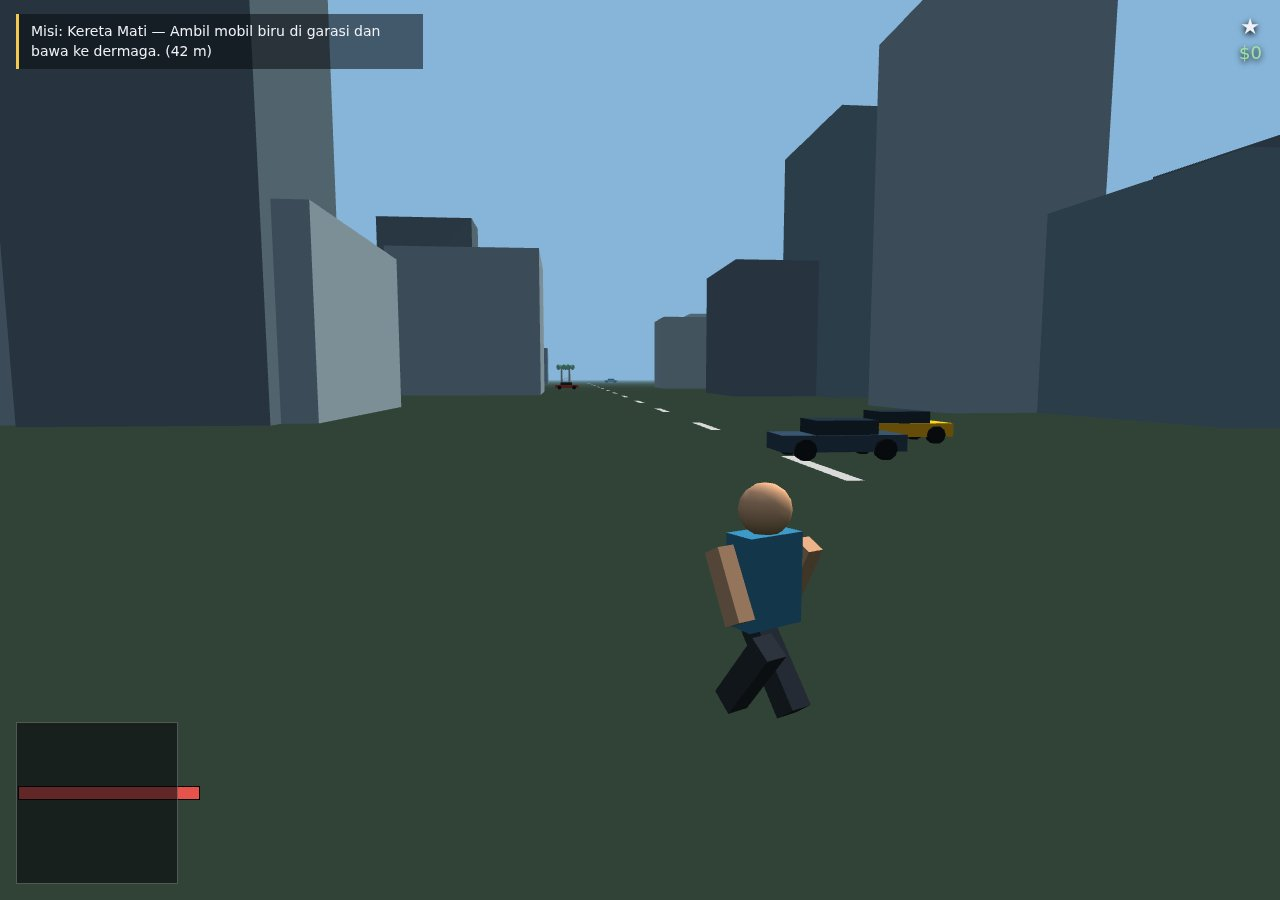
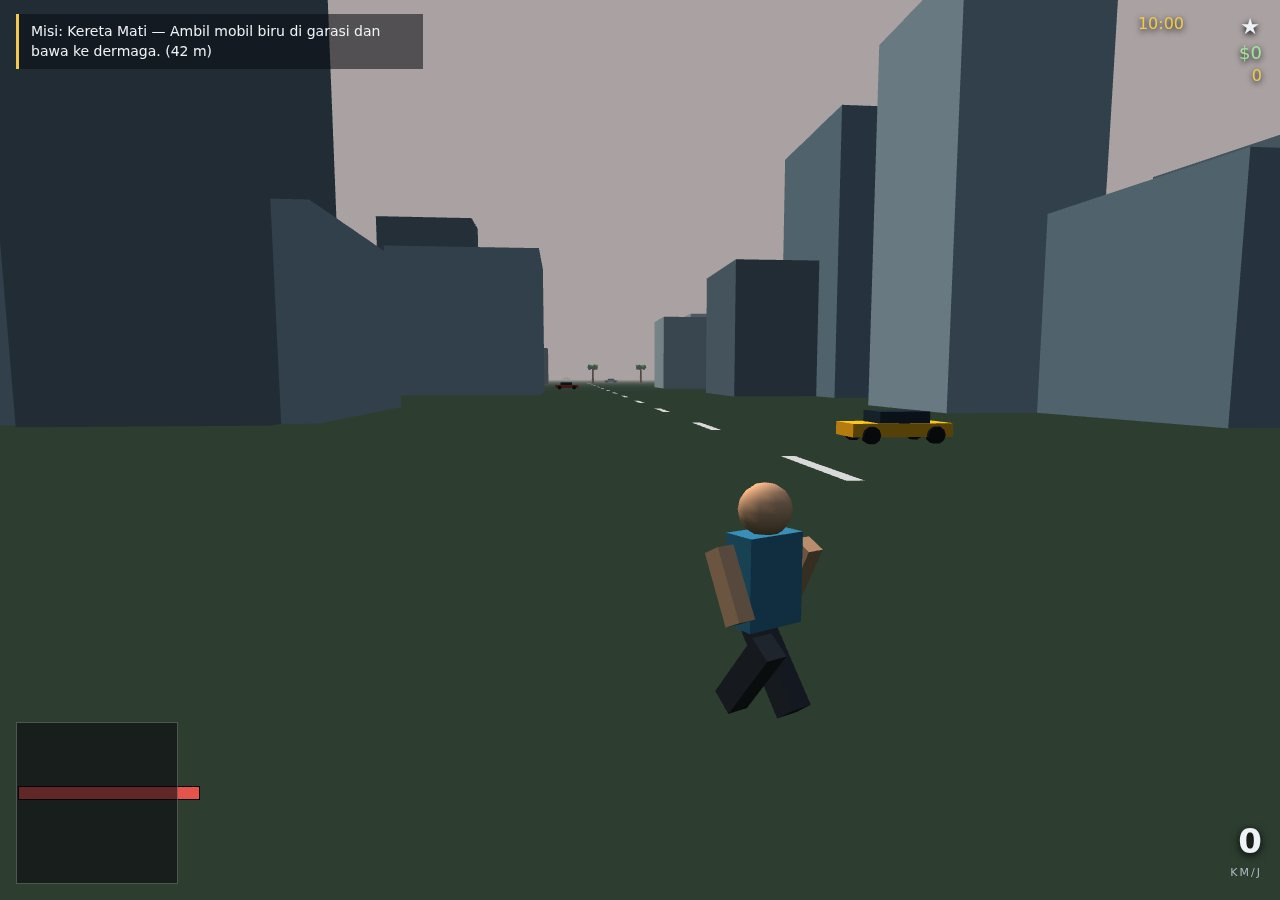
Kota Karang: edit pass — screenshot validation, score labels, crash and near-miss

diff --git a/main.ts b/main.ts
@@ -9,7 +9,7 @@
 // Outside the grader's container, MAKEFUN_OUTPUT_DIR stands in for /output:
 //   mkdir -p out && MAKEFUN_OUTPUT_DIR=out node main.ts
 
-import { cpSync, existsSync, mkdirSync, writeFileSync } from 'node:fs';
+import { cpSync, existsSync, mkdirSync, readdirSync, statSync, writeFileSync } from 'node:fs';
 import { join } from 'node:path';
 import { fileURLToPath } from 'node:url';
 import { buildDossier } from './vendor/makefun-game.ts';
@@ -21,6 +21,30 @@ mkdirSync(out, { recursive: true });
 cpSync(join(here, 'game'), join(out, 'game'), { recursive: true });
 mkdirSync(join(out, 'screenshots'), { recursive: true });
 if (existsSync(join(here, 'screenshots'))) cpSync(join(here, 'screenshots'), join(out, 'screenshots'), { recursive: true });
+
+// [RONDE 2] Validasi screenshot sebelum dossier dibangun: 3-4 berkas, PNG/JPEG,
+// maksimal 256 KiB per berkas. Lebih baik gagal di sini dengan pesan jelas
+// daripada ditolak scorer di sisi server setelah entry dikirim.
+const shotsDir = join(here, 'screenshots');
+let shotNames = [];
+try {
+  shotNames = readdirSync(shotsDir);
+} catch {
+  shotNames = [];
+}
+const badName = shotNames.filter((n) => !/\.(png|jpe?g)$/i.test(n));
+const tooBig = shotNames.filter((n) => {
+  try {
+    return statSync(join(shotsDir, n)).size > 262144;
+  } catch {
+    return false;
+  }
+});
+if (shotNames.length < 3 || shotNames.length > 4 || badName.length > 0 || tooBig.length > 0) {
+  throw new Error(
+    `screenshots tidak sah: ${shotNames.length} berkas, nama buruk=${badName.join(',') || '-'}, terlalu besar=${tooBig.join(',') || '-'}`,
+  );
+}
 
 // The scorer's own caps: only text_max_bytes shapes the bytes; the others refuse an entry the
 // scorer would refuse (more than 4 screenshots or one over 256 KiB; more than 993 files in game/

diff --git a/game/src/game_main.js b/game/src/game_main.js
@@ -143,6 +143,7 @@ function begin(fresh) {
   hud.setCash(state.cash);
   hud.setWanted(state.wanted);
   hud.setScore(score);
+  hud.setHealth(player.health);
   sound.resume();
   sound.music(true);
   if (!missions.active) startMission(MISSIONS[missions.index]);
@@ -360,6 +361,34 @@ function updateCamera(dt, yaw) {
 const shotCtx = { player, camera, traffic, police, pedestrians: peds, cityHalf: half, hud, overlay, daynight };
 const staged = state.started ? '' : stageShot(shot.shot, shotCtx);
 
+// [RONDE 2] Interaksi dengan lalu lintas: menabrak mengurangi nyawa dan
+// memperlambat mobil, lewat dekat tanpa tabrakan memberi skor "nyaris".
+let crashCooldown = 0;
+let nearMissCooldown = 0;
+function updateTrafficInteraction(dt) {
+  if (!player.inCar) return;
+  const car = player.inCar;
+  const speed = Math.abs(car.speed);
+  crashCooldown -= dt;
+  nearMissCooldown -= dt;
+  for (const t of traffic) {
+    if (t.driver !== 'traffic') continue;
+    const d = Math.hypot(t.pos.x - car.pos.x, t.pos.z - car.pos.z);
+    if (d < 2.6 && speed > 4 && crashCooldown <= 0) {
+      crashCooldown = 0.8;
+      player.health = Math.max(0, player.health - 8);
+      hud.setHealth(player.health);
+      hud.flash('Tabrakan! Nyawa -8', 1.4);
+      car.speed *= 0.4;
+      sound.blip(180, 0.18, 'sawtooth', 0.3);
+      addWanted(0.2);
+    } else if (d < 5.5 && speed > 10 && nearMissCooldown <= 0) {
+      nearMissCooldown = 1.2;
+      score.add(SCORE.nearMiss, 'Nyaris tabrak');
+    }
+  }
+}
+
 // ---------- loop ----------
 let last = performance.now();
 function frame(now) {
@@ -391,6 +420,7 @@ function frame(now) {
     updateWanted(dt);
     updateMission(dt);
     updateBullets(dt);
+    updateTrafficInteraction(dt);
     score.update(dt);
     hud.update(dt);
     hud.setScore(score);

diff --git a/game/src/hud.js b/game/src/hud.js
@@ -36,7 +36,8 @@ export class Hud {
 
   setScore(score) {
     this.scoreEl.textContent = score.text;
-    const c = score.comboText;
+    // Label bergerak: kombo bila aktif, kalau tidak tunjukkan aksi terakhir.
+    const c = score.comboText || score.statusText();
     this.comboEl.textContent = c;
     this.comboEl.style.opacity = c ? '1' : '0';
   }
